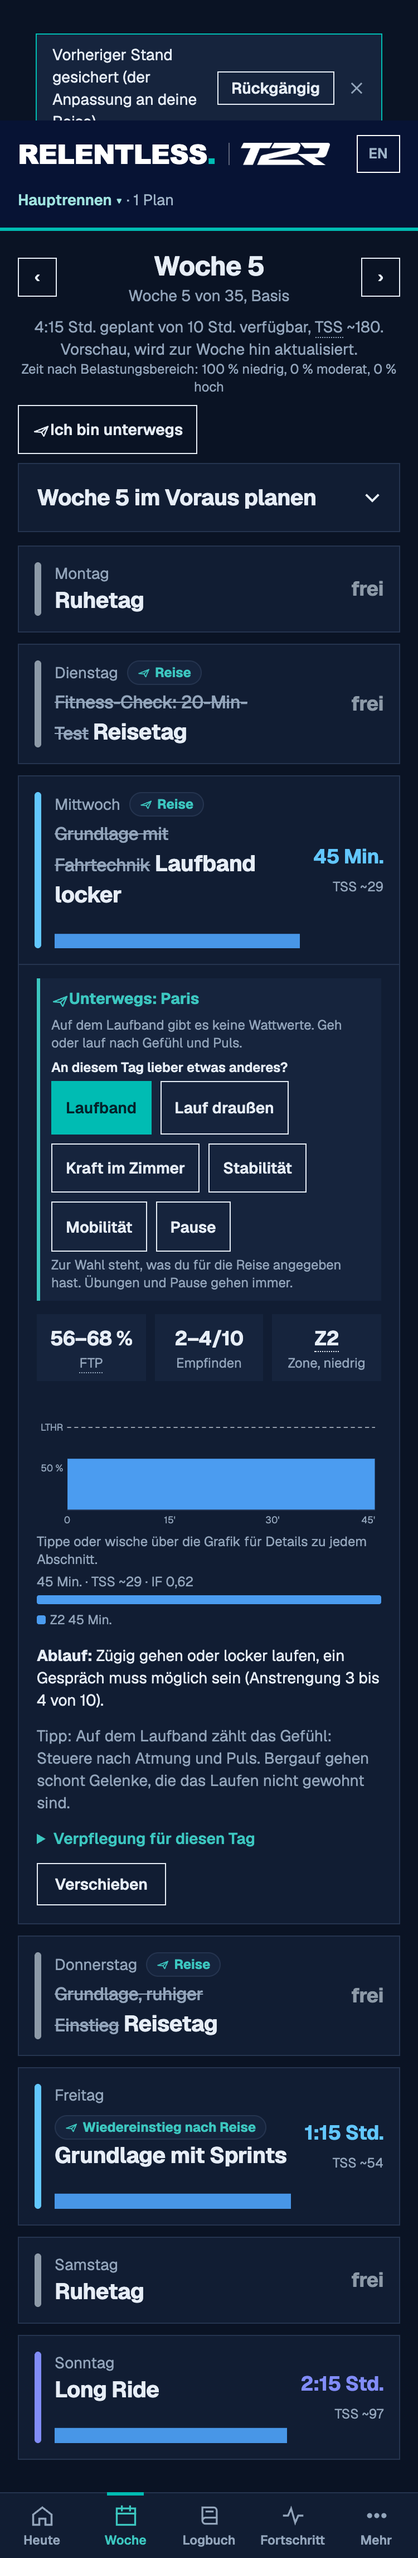
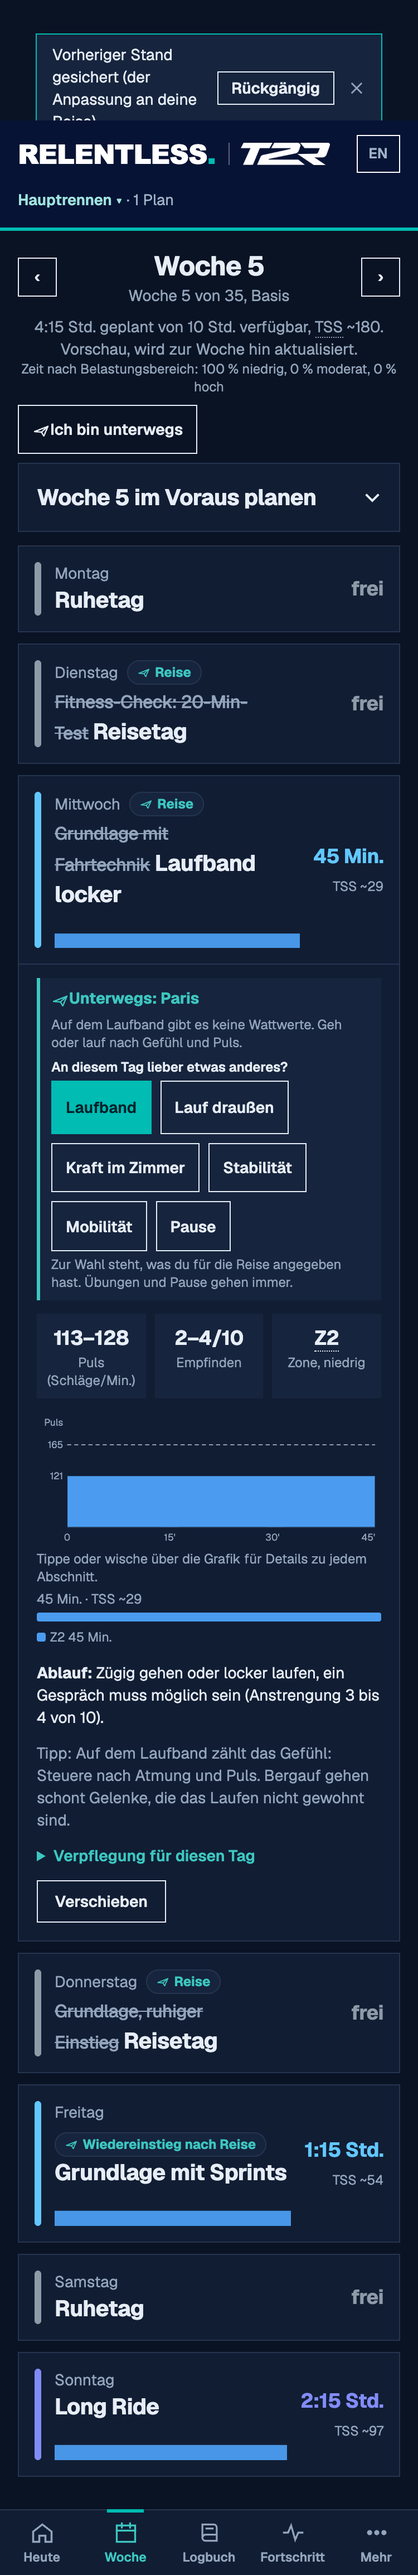
Reisemodus: Grafik von Lauf und Laufband mit Pulsachse statt Prozent FTP (v202)

diff --git a/public/index.html b/public/index.html
@@ -6446,7 +6446,10 @@ const wkMinSay = s => { const m = Math.round(s / 60 * 10) / 10; return s < 60 ? 
 const WK_KN = {wu:['einfahren', 'warm-up'], cd:['ausfahren', 'cool-down'], work:['Intervall', 'interval'], rest:['locker', 'easy'], under:['knapp unter der Schwelle', 'just below threshold'], sr:['Serienpause', 'set break'], easy:['locker', 'easy'], steady:['gleichmäßig', 'steady'], tempo:['Tempo', 'tempo'], race:['Renntempo', 'race pace'], test:['Testabschnitt', 'test effort']};
 const wkKn = k => { const v = WK_KN[k] || WK_KN.steady; return wkL(v[0], v[1]); };
 /* Zielangabe: Watt (aus FTP), sonst Puls (ohne Wattmesser), sonst Empfinden */
+/* Lauf und Laufband (Reisemodus): Grafik, Beschreibung und Kennzahlen ohne FTP-Anteil, dafür Puls oder Empfinden */
+const wkNb = x => !!(x && (x.nb || (typeof rzNoBike === 'function' && rzNoBike(x))));
 function wkTgt(b, ftp, x){
+  if (wkNb(x)) { const a = Math.min(b.lo, b.hi), c = Math.max(b.lo, b.hi), h = typeof hrRng === 'function' ? hrRng(a, c) : null; return h ? wkL('Puls ', 'HR ') + hrTxt(h) : b.k === 'work' || b.k === 'steady' ? wkL('Empfinden ', 'RPE ') + rpeTxt(x) : wkL('locker', 'easy'); }
   const np = typeof noPwr === 'function' && noPwr(), lo = Math.min(b.lo, b.hi), hi = Math.max(b.lo, b.hi), pc = `${Math.round(lo)}–${Math.round(hi)} % FTP`;
   if (np) { const h = typeof hrRng === 'function' ? hrRng(lo, hi) : null; return h ? wkL('Puls ', 'HR ') + hrTxt(h) + ' · ' + pc : wkL('Empfinden ', 'RPE ') + rpeTxt(x || {t:'base'}) + ' · ' + pc; }
   return ftp ? `${Math.round(ftp * lo / 100)}–${Math.round(ftp * hi / 100)} W · ${pc}` : pc;
@@ -6454,7 +6457,7 @@ function wkTgt(b, ftp, x){
 /* Zusammenfassung für VoiceOver: „Einheit 75 Minuten: 15 Minuten einfahren, 3 mal 12 Minuten bei 88 bis 94 Prozent FTP mit 5 Minuten Pause, 10 Minuten ausfahren“ */
 function wkSay(x, bl){
   bl = bl || wkBlocks(x); if (!bl.length) return '';
-  const pct = b => wkL(`bei ${Math.round(b.lo)} bis ${Math.round(b.hi)} Prozent FTP`, `at ${Math.round(b.lo)} to ${Math.round(b.hi)} percent FTP`), out = []; let i = 0;
+  const nb = wkNb(x), pct = b => { if (nb) { const h = typeof hrRng === 'function' ? hrRng(Math.min(b.lo, b.hi), Math.max(b.lo, b.hi)) : null; return h ? wkL(`bei Puls ${h[0]} bis ${h[1]}`, `at heart rate ${h[0]} to ${h[1]}`) : wkL('nach Gefühl', 'by feel'); } return wkL(`bei ${Math.round(b.lo)} bis ${Math.round(b.hi)} Prozent FTP`, `at ${Math.round(b.lo)} to ${Math.round(b.hi)} percent FTP`); }, out = []; let i = 0;
   while (i < bl.length) {
     const b = bl[i];
     if (b.k === 'work') { let j = i, n = 0, rest = null; while (j < bl.length && (bl[j].k === 'work' || bl[j].k === 'rest' || bl[j].k === 'under' || bl[j].k === 'sr') && (bl[j].k !== 'work' || (bl[j].d === b.d && bl[j].lo === b.lo))) { if (bl[j].k === 'work') n++; else if (!rest && bl[j].k !== 'sr') rest = bl[j]; j++; }
@@ -6501,16 +6504,18 @@ function wkSvg(x, o = {}){
       const np = typeof noPwr === 'function' && noPwr(), y100 = Y(100), step = sc.TT > 4 * 3600 ? 3600 : sc.TT > 2 * 3600 ? 1800 : sc.TT > 5400 ? 1200 : sc.TT > 2400 ? 900 : 600, xt = [];
       for (let t = 0; t <= sc.TT + 1; t += step) xt.push(t);
       const tl = t => t === 0 ? '0' : t % 3600 === 0 ? t / 3600 + ' h' : t >= 3600 ? Math.floor(t / 3600) + ':' + String(t % 3600 / 60).padStart(2, '0') : t / 60 + "'";
-      axes = `<line x1="${L}" x2="${W - R}" y1="${base}" y2="${base}" class="wk-ax"/>`
-        + `<line x1="${L}" x2="${W - R}" y1="${y100.toFixed(1)}" y2="${y100.toFixed(1)}" class="wk-ftp"/>`
-        + `<text x="${L - 4}" y="${(y100 + 3).toFixed(1)}" text-anchor="end" class="tx">${np ? 'LTHR' : 'FTP'}</text><text x="${L - 4}" y="${(Y(50) + 3).toFixed(1)}" text-anchor="end" class="tx">50 %</text>`
+      const nb = wkNb(x), lt = nb && typeof lthrOf === 'function' ? lthrOf() : 0, mid = nb ? ((x.lo || 56) + (x.hi || 68)) / 2 : 0, yM = nb ? Y(mid) : 0, tx = (y, s) => `<text x="${L - 4}" y="${(y + 3).toFixed(1)}" text-anchor="end" class="tx">${s}</text>`;
+      /* Lauf und Laufband: Achse in Pulsschlägen (Schwellenpuls gestrichelt), ohne eingetragenen Puls das Empfinden */
+      const yAx = nb ? (lt ? `<line x1="${L}" x2="${W - R}" y1="${y100.toFixed(1)}" y2="${y100.toFixed(1)}" class="wk-ftp"/>` + tx(T + 3, wkL('Puls', 'HR')) + tx(y100, lt) + (Math.abs(yM - y100) > 10 ? tx(yM, Math.round(lt * hrPct(mid) / 100)) : '') : tx(yM, rpeTxt(x)))
+        : `<line x1="${L}" x2="${W - R}" y1="${y100.toFixed(1)}" y2="${y100.toFixed(1)}" class="wk-ftp"/>` + tx(y100, np ? 'LTHR' : 'FTP') + tx(Y(50), '50 %');
+      axes = `<line x1="${L}" x2="${W - R}" y1="${base}" y2="${base}" class="wk-ax"/>` + yAx
         + bl.map((b, i) => { const x0 = L + sc.xs[i], x1 = L + sc.xs[i + 1]; return b.part && b.k === 'steady' && x1 - x0 > 70 ? `<text x="${((x0 + x1) / 2).toFixed(1)}" y="${(Y(Math.max(b.a, b.b)) - 5).toFixed(1)}" text-anchor="middle" class="tx wk-pl">${esc(b.part)} · ${Math.round(b.lo)}–${Math.round(b.hi)} %</text>` : ''; }).join('')
         + xt.map(t => { const tx = L + sc.X(t), an = tx > W - R - 12 ? 'end' : 'middle'; return `<text x="${(an === 'end' ? W - R : tx).toFixed(1)}" y="${H - 5}" text-anchor="${an}" class="tx">${tl(t)}</text>`; }).join('');
     }
     if (act && ftp) { const k = Math.max(1, Math.round(20 / act.b)), sm = typeof vzSmooth === 'function' ? vzSmooth(act.p, k) : act.p; let d = '', on = false;
       sm.forEach((v, i) => { if (v == null) { on = false; return; } const t = (i + .5) * act.b; d += (on ? 'L' : 'M') + (L + sc.X(t)).toFixed(1) + ',' + Y(v / ftp * 100).toFixed(1); on = true; });
       line = `<path d="${d}" class="wk-act"/>`; }
-    if (!mini) wkReg[id] = {bl, xs:sc.xs.map(v => v + L), ts:sc.ts, wide:sc.wide, ftp, x:x ? {t:x.t, cad:x.cad} : null, act:act && ftp ? {p:act.p, b:act.b} : null, X:null, sc};
+    if (!mini) wkReg[id] = {bl, xs:sc.xs.map(v => v + L), ts:sc.ts, wide:sc.wide, ftp, x:x ? {t:x.t, cad:x.cad, ...(wkNb(x) ? {nb:1} : {})} : null, act:act && ftp ? {p:act.p, b:act.b} : null, X:null, sc};
     const svg = `<svg viewBox="0 0 ${W} ${H}" ${mini ? `preserveAspectRatio="none" style="width:100%;height:${H}px;display:block"` : ''} class="wk ${mini ? 'wk-mini' : 'pchart'}" ${mini && !o.label ? 'aria-hidden="true" focusable="false"' : `role="img" aria-label="${say}"`}${mini ? '' : ` data-wk="${id}" onpointerdown="wkTip(event,'${id}')" onpointermove="wkTip(event,'${id}')"`}>${shapes}${axes}${line}${mini ? '' : `<line class="wk-cur" x1="0" x2="0" y1="${T}" y2="${base}" style="display:none"/>`}</svg>`;
     if (mini) return `<span class="wk-mw" data-noi18n>${svg}</span>`;
     const tip = `<p class="wk-tip text-xs" id="${id}-t" aria-live="polite">${esc(wkL('Tippe oder wische über die Grafik für Details zu jedem Abschnitt.', 'Tap or swipe across the chart for details on each section.'))}</p>`;
@@ -6523,7 +6528,7 @@ function wkSum(x, bl, act){
   const IF = typeof tssIF === 'function' ? tssIF(x) : 0, ts = typeof tss === 'function' ? tss(x) : 0;
   const bar = zs.map((v, k) => v ? `<i class="${wkCls(k)}" style="width:${(v / tot * 100).toFixed(1)}%"></i>` : '').join('');
   const lg = zs.map((v, k) => v / tot >= .04 ? `<span><i class="${wkCls(k)}"></i>${WK_Z[k][2]} ${wkMin(Math.round(v / 60) * 60)}</span>` : '').join('');
-  return `<p class="mt-1 text-xs" style="color:var(--mute)">${wkMin(x.m * 60)} · TSS ~${ts} · IF ${IF ? IF.toFixed(2).replace('.', wkL(',', '.')) : '–'}${act ? ' · ' + wkL('Linie: gefahrene Leistung (20 Sek. geglättet)', 'Line: power ridden (20 s smoothed)') : ''}</p><div class="wk-zb" aria-hidden="true">${bar}</div><div class="wk-zl">${lg}</div>`;
+  return `<p class="mt-1 text-xs" style="color:var(--mute)">${wkMin(x.m * 60)} · TSS ~${ts}${wkNb(x) ? '' : ` · IF ${IF ? IF.toFixed(2).replace('.', wkL(',', '.')) : '–'}`}${act ? ' · ' + wkL('Linie: gefahrene Leistung (20 Sek. geglättet)', 'Line: power ridden (20 s smoothed)') : ''}</p><div class="wk-zb" aria-hidden="true">${bar}</div><div class="wk-zl">${lg}</div>`;
 }
 /* Antippen bzw. Wischen: Abschnitt unter dem Finger beschreiben und Markierung setzen */
 function wkTip(ev, id){

diff --git a/src/js/27a-einheit-grafik.js b/src/js/27a-einheit-grafik.js
@@ -65,7 +65,10 @@ const wkMinSay = s => { const m = Math.round(s / 60 * 10) / 10; return s < 60 ? 
 const WK_KN = {wu:['einfahren', 'warm-up'], cd:['ausfahren', 'cool-down'], work:['Intervall', 'interval'], rest:['locker', 'easy'], under:['knapp unter der Schwelle', 'just below threshold'], sr:['Serienpause', 'set break'], easy:['locker', 'easy'], steady:['gleichmäßig', 'steady'], tempo:['Tempo', 'tempo'], race:['Renntempo', 'race pace'], test:['Testabschnitt', 'test effort']};
 const wkKn = k => { const v = WK_KN[k] || WK_KN.steady; return wkL(v[0], v[1]); };
 /* Zielangabe: Watt (aus FTP), sonst Puls (ohne Wattmesser), sonst Empfinden */
+/* Lauf und Laufband (Reisemodus): Grafik, Beschreibung und Kennzahlen ohne FTP-Anteil, dafür Puls oder Empfinden */
+const wkNb = x => !!(x && (x.nb || (typeof rzNoBike === 'function' && rzNoBike(x))));
 function wkTgt(b, ftp, x){
+  if (wkNb(x)) { const a = Math.min(b.lo, b.hi), c = Math.max(b.lo, b.hi), h = typeof hrRng === 'function' ? hrRng(a, c) : null; return h ? wkL('Puls ', 'HR ') + hrTxt(h) : b.k === 'work' || b.k === 'steady' ? wkL('Empfinden ', 'RPE ') + rpeTxt(x) : wkL('locker', 'easy'); }
   const np = typeof noPwr === 'function' && noPwr(), lo = Math.min(b.lo, b.hi), hi = Math.max(b.lo, b.hi), pc = `${Math.round(lo)}–${Math.round(hi)} % FTP`;
   if (np) { const h = typeof hrRng === 'function' ? hrRng(lo, hi) : null; return h ? wkL('Puls ', 'HR ') + hrTxt(h) + ' · ' + pc : wkL('Empfinden ', 'RPE ') + rpeTxt(x || {t:'base'}) + ' · ' + pc; }
   return ftp ? `${Math.round(ftp * lo / 100)}–${Math.round(ftp * hi / 100)} W · ${pc}` : pc;
@@ -73,7 +76,7 @@ function wkTgt(b, ftp, x){
 /* Zusammenfassung für VoiceOver: „Einheit 75 Minuten: 15 Minuten einfahren, 3 mal 12 Minuten bei 88 bis 94 Prozent FTP mit 5 Minuten Pause, 10 Minuten ausfahren“ */
 function wkSay(x, bl){
   bl = bl || wkBlocks(x); if (!bl.length) return '';
-  const pct = b => wkL(`bei ${Math.round(b.lo)} bis ${Math.round(b.hi)} Prozent FTP`, `at ${Math.round(b.lo)} to ${Math.round(b.hi)} percent FTP`), out = []; let i = 0;
+  const nb = wkNb(x), pct = b => { if (nb) { const h = typeof hrRng === 'function' ? hrRng(Math.min(b.lo, b.hi), Math.max(b.lo, b.hi)) : null; return h ? wkL(`bei Puls ${h[0]} bis ${h[1]}`, `at heart rate ${h[0]} to ${h[1]}`) : wkL('nach Gefühl', 'by feel'); } return wkL(`bei ${Math.round(b.lo)} bis ${Math.round(b.hi)} Prozent FTP`, `at ${Math.round(b.lo)} to ${Math.round(b.hi)} percent FTP`); }, out = []; let i = 0;
   while (i < bl.length) {
     const b = bl[i];
     if (b.k === 'work') { let j = i, n = 0, rest = null; while (j < bl.length && (bl[j].k === 'work' || bl[j].k === 'rest' || bl[j].k === 'under' || bl[j].k === 'sr') && (bl[j].k !== 'work' || (bl[j].d === b.d && bl[j].lo === b.lo))) { if (bl[j].k === 'work') n++; else if (!rest && bl[j].k !== 'sr') rest = bl[j]; j++; }
@@ -120,16 +123,18 @@ function wkSvg(x, o = {}){
       const np = typeof noPwr === 'function' && noPwr(), y100 = Y(100), step = sc.TT > 4 * 3600 ? 3600 : sc.TT > 2 * 3600 ? 1800 : sc.TT > 5400 ? 1200 : sc.TT > 2400 ? 900 : 600, xt = [];
       for (let t = 0; t <= sc.TT + 1; t += step) xt.push(t);
       const tl = t => t === 0 ? '0' : t % 3600 === 0 ? t / 3600 + ' h' : t >= 3600 ? Math.floor(t / 3600) + ':' + String(t % 3600 / 60).padStart(2, '0') : t / 60 + "'";
-      axes = `<line x1="${L}" x2="${W - R}" y1="${base}" y2="${base}" class="wk-ax"/>`
-        + `<line x1="${L}" x2="${W - R}" y1="${y100.toFixed(1)}" y2="${y100.toFixed(1)}" class="wk-ftp"/>`
-        + `<text x="${L - 4}" y="${(y100 + 3).toFixed(1)}" text-anchor="end" class="tx">${np ? 'LTHR' : 'FTP'}</text><text x="${L - 4}" y="${(Y(50) + 3).toFixed(1)}" text-anchor="end" class="tx">50 %</text>`
+      const nb = wkNb(x), lt = nb && typeof lthrOf === 'function' ? lthrOf() : 0, mid = nb ? ((x.lo || 56) + (x.hi || 68)) / 2 : 0, yM = nb ? Y(mid) : 0, tx = (y, s) => `<text x="${L - 4}" y="${(y + 3).toFixed(1)}" text-anchor="end" class="tx">${s}</text>`;
+      /* Lauf und Laufband: Achse in Pulsschlägen (Schwellenpuls gestrichelt), ohne eingetragenen Puls das Empfinden */
+      const yAx = nb ? (lt ? `<line x1="${L}" x2="${W - R}" y1="${y100.toFixed(1)}" y2="${y100.toFixed(1)}" class="wk-ftp"/>` + tx(T + 3, wkL('Puls', 'HR')) + tx(y100, lt) + (Math.abs(yM - y100) > 10 ? tx(yM, Math.round(lt * hrPct(mid) / 100)) : '') : tx(yM, rpeTxt(x)))
+        : `<line x1="${L}" x2="${W - R}" y1="${y100.toFixed(1)}" y2="${y100.toFixed(1)}" class="wk-ftp"/>` + tx(y100, np ? 'LTHR' : 'FTP') + tx(Y(50), '50 %');
+      axes = `<line x1="${L}" x2="${W - R}" y1="${base}" y2="${base}" class="wk-ax"/>` + yAx
         + bl.map((b, i) => { const x0 = L + sc.xs[i], x1 = L + sc.xs[i + 1]; return b.part && b.k === 'steady' && x1 - x0 > 70 ? `<text x="${((x0 + x1) / 2).toFixed(1)}" y="${(Y(Math.max(b.a, b.b)) - 5).toFixed(1)}" text-anchor="middle" class="tx wk-pl">${esc(b.part)} · ${Math.round(b.lo)}–${Math.round(b.hi)} %</text>` : ''; }).join('')
         + xt.map(t => { const tx = L + sc.X(t), an = tx > W - R - 12 ? 'end' : 'middle'; return `<text x="${(an === 'end' ? W - R : tx).toFixed(1)}" y="${H - 5}" text-anchor="${an}" class="tx">${tl(t)}</text>`; }).join('');
     }
     if (act && ftp) { const k = Math.max(1, Math.round(20 / act.b)), sm = typeof vzSmooth === 'function' ? vzSmooth(act.p, k) : act.p; let d = '', on = false;
       sm.forEach((v, i) => { if (v == null) { on = false; return; } const t = (i + .5) * act.b; d += (on ? 'L' : 'M') + (L + sc.X(t)).toFixed(1) + ',' + Y(v / ftp * 100).toFixed(1); on = true; });
       line = `<path d="${d}" class="wk-act"/>`; }
-    if (!mini) wkReg[id] = {bl, xs:sc.xs.map(v => v + L), ts:sc.ts, wide:sc.wide, ftp, x:x ? {t:x.t, cad:x.cad} : null, act:act && ftp ? {p:act.p, b:act.b} : null, X:null, sc};
+    if (!mini) wkReg[id] = {bl, xs:sc.xs.map(v => v + L), ts:sc.ts, wide:sc.wide, ftp, x:x ? {t:x.t, cad:x.cad, ...(wkNb(x) ? {nb:1} : {})} : null, act:act && ftp ? {p:act.p, b:act.b} : null, X:null, sc};
     const svg = `<svg viewBox="0 0 ${W} ${H}" ${mini ? `preserveAspectRatio="none" style="width:100%;height:${H}px;display:block"` : ''} class="wk ${mini ? 'wk-mini' : 'pchart'}" ${mini && !o.label ? 'aria-hidden="true" focusable="false"' : `role="img" aria-label="${say}"`}${mini ? '' : ` data-wk="${id}" onpointerdown="wkTip(event,'${id}')" onpointermove="wkTip(event,'${id}')"`}>${shapes}${axes}${line}${mini ? '' : `<line class="wk-cur" x1="0" x2="0" y1="${T}" y2="${base}" style="display:none"/>`}</svg>`;
     if (mini) return `<span class="wk-mw" data-noi18n>${svg}</span>`;
     const tip = `<p class="wk-tip text-xs" id="${id}-t" aria-live="polite">${esc(wkL('Tippe oder wische über die Grafik für Details zu jedem Abschnitt.', 'Tap or swipe across the chart for details on each section.'))}</p>`;
@@ -142,7 +147,7 @@ function wkSum(x, bl, act){
   const IF = typeof tssIF === 'function' ? tssIF(x) : 0, ts = typeof tss === 'function' ? tss(x) : 0;
   const bar = zs.map((v, k) => v ? `<i class="${wkCls(k)}" style="width:${(v / tot * 100).toFixed(1)}%"></i>` : '').join('');
   const lg = zs.map((v, k) => v / tot >= .04 ? `<span><i class="${wkCls(k)}"></i>${WK_Z[k][2]} ${wkMin(Math.round(v / 60) * 60)}</span>` : '').join('');
-  return `<p class="mt-1 text-xs" style="color:var(--mute)">${wkMin(x.m * 60)} · TSS ~${ts} · IF ${IF ? IF.toFixed(2).replace('.', wkL(',', '.')) : '–'}${act ? ' · ' + wkL('Linie: gefahrene Leistung (20 Sek. geglättet)', 'Line: power ridden (20 s smoothed)') : ''}</p><div class="wk-zb" aria-hidden="true">${bar}</div><div class="wk-zl">${lg}</div>`;
+  return `<p class="mt-1 text-xs" style="color:var(--mute)">${wkMin(x.m * 60)} · TSS ~${ts}${wkNb(x) ? '' : ` · IF ${IF ? IF.toFixed(2).replace('.', wkL(',', '.')) : '–'}`}${act ? ' · ' + wkL('Linie: gefahrene Leistung (20 Sek. geglättet)', 'Line: power ridden (20 s smoothed)') : ''}</p><div class="wk-zb" aria-hidden="true">${bar}</div><div class="wk-zl">${lg}</div>`;
 }
 /* Antippen bzw. Wischen: Abschnitt unter dem Finger beschreiben und Markierung setzen */
 function wkTip(ev, id){

diff --git a/tests/reise.test.js b/tests/reise.test.js
@@ -125,6 +125,8 @@ test('Tageswahl: an Reisetagen selbst wählen, nur im Rahmen der Ausstattung, zu
   B[6].click(); eq(rzAll(a), all0, '„Vorschlag der App wiederherstellen“ stellt den Plan exakt wieder her'); eq(a.$(`rzGet('${id}').days`), undefined);
   eq(a.w.document.querySelectorAll('.rzpick').length, 1, 'nur am Tag des Aufenthalts'); let card = a.w.document.querySelector('.rzpick').closest('.panel').innerText;
   ok(!/FTP/.test(card.split('Empfinden')[0]) && /Puls eintragen/.test(card), 'ohne eingetragenen Puls: Weg zum Feld statt FTP-Kachel'); a.$('S.p.lthr = 165; S.d.lthr = 165; render();'); card = a.w.document.querySelector('.rzpick').closest('.panel').innerText; ok(/\d{2,3}–\d{2,3}\s*Puls \(Schläge\/Min\.\)/.test(card.replace(/\n/g, ' ')) && !/% FTP|%\s+FTP/.test(card.replace(/\n/g, ' ')), 'mit Schwellenpuls: Pulsbereich statt FTP (' + card.slice(0, 0) + ')');
+  { const sv = a.w.document.querySelector('.rzpick').closest('.panel').querySelector('svg.pchart'), ax = [...sv.querySelectorAll('text.tx')].map(t => t.textContent); ok(ax.includes('Puls') && ax.includes('165') && !ax.some(s => /%|FTP|LTHR/.test(s)), 'Grafik: Pulsachse statt Prozent (' + ax.join('|') + ')'); ok(!/FTP/.test(sv.getAttribute('aria-label')) && /Puls \d+ bis \d+/.test(sv.getAttribute('aria-label')), 'Beschreibung für VoiceOver mit Puls'); ok(!/IF /.test(card), 'kein IF');
+    a.$('S.p.lthr = 0; S.d.lthr = 0; render();'); const s2 = a.w.document.querySelector('.rzpick').closest('.panel').querySelector('svg.pchart'), a2 = [...s2.querySelectorAll('text.tx')].map(t => t.textContent); ok(a2.some(s => /\/10$/.test(s)) && !a2.some(s => /%|FTP|LTHR/.test(s)) && !s2.querySelector('.wk-ftp'), 'ohne Puls: Empfinden statt Prozent (' + a2.join('|') + ')'); ok(/nach Gefühl/.test(s2.getAttribute('aria-label'))); a.$('S.p.lthr = 165; S.d.lthr = 165; render();'); card = a.w.document.querySelector('.rzpick').closest('.panel').innerText; }
   ok(!/Trittfrequenz|Downloads|\d W\b/.test(card) && /Empfinden/.test(card) && /Auf dem Laufband gibt es keine Wattwerte/.test(card), 'Laufband: keine Trittfrequenz, keine Watt, keine Rad-Dateien');
   a.w.rzDayPick(id, D9, 'run'); card = a.w.document.querySelector('.rzpick').closest('.panel').innerText; ok(!/Trittfrequenz|Downloads|\d W\b|Wattwerte/.test(card) && /Empfinden/.test(card), 'Lauf: keine Trittfrequenz, keine Watt'); a.w.rzDayPick(id, D9, ''); ok(/Zur Wahl steht, was du für die Reise angegeben hast/.test(a.text()));
   /* nicht angenommene Reise und ausgeschalteter Reisemodus: keine Wahl */

diff --git a/claude/bericht-f29-reisemodus-2026-11-14.md b/claude/bericht-f29-reisemodus-2026-11-14.md
@@ -153,4 +153,4 @@ Nicht ausgeführt. Der Ablauf wie bisher:
 - Hinweis „Wusstest du schon?“ (`rzday`, nur während einer Reise), Eintrag im Neuigkeiten-Fenster, Build-ID neu.
 - Tests: 267 grün (2 neue in `tests/reise.test.js`), Build-Check aktuell. Bilder: `claude/bilder/f29b-tageswahl-*.png` (beide dunkel).
 - Lauf und Laufband zeigen statt der Kachel „% FTP“ den Pulsbereich (aus Schwellen- oder Maximalpuls). Ohne eingetragenen Puls steht dort „Puls eintragen“ und führt zum Feld. Der Bereich stammt aus den Rad-Zonen; beim Laufen liegt der Puls meist etwas höher.
-- Offen: Die Grafik mit Prozentachse steht bei Laufband und Lauf weiter da. Der Reiter heißt an Tagen mit Kraft oder Mobilität weiter „Rad“. Nicht auf dem iPhone geprüft.
+- Die Grafik von Lauf und Laufband hat eine Pulsachse (Schwellenpuls gestrichelt, Pulswert der Einheit), ohne eingetragenen Puls das Empfinden. Detailtext beim Antippen und Beschreibung für VoiceOver nennen Puls oder Empfinden statt Prozent FTP, die Zeile darunter zeigt kein IF mehr. Der Reiter heißt an Tagen mit Kraft oder Mobilität weiter „Rad“. Nicht auf dem iPhone geprüft.
